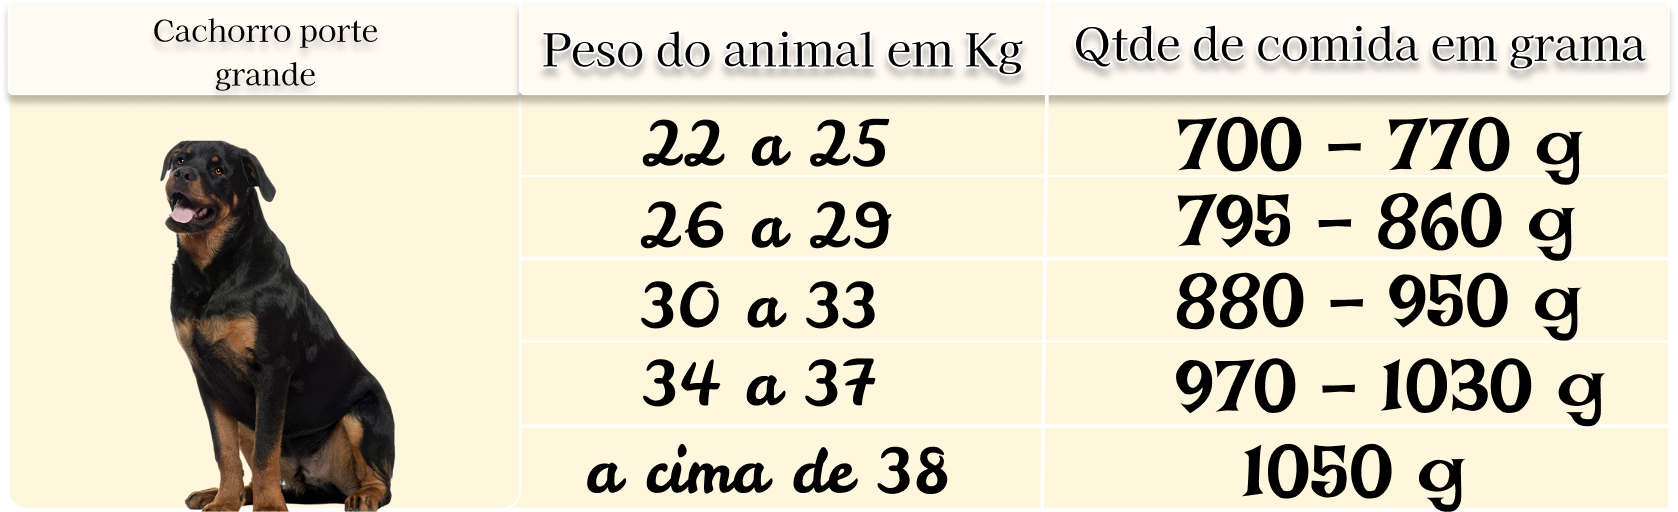
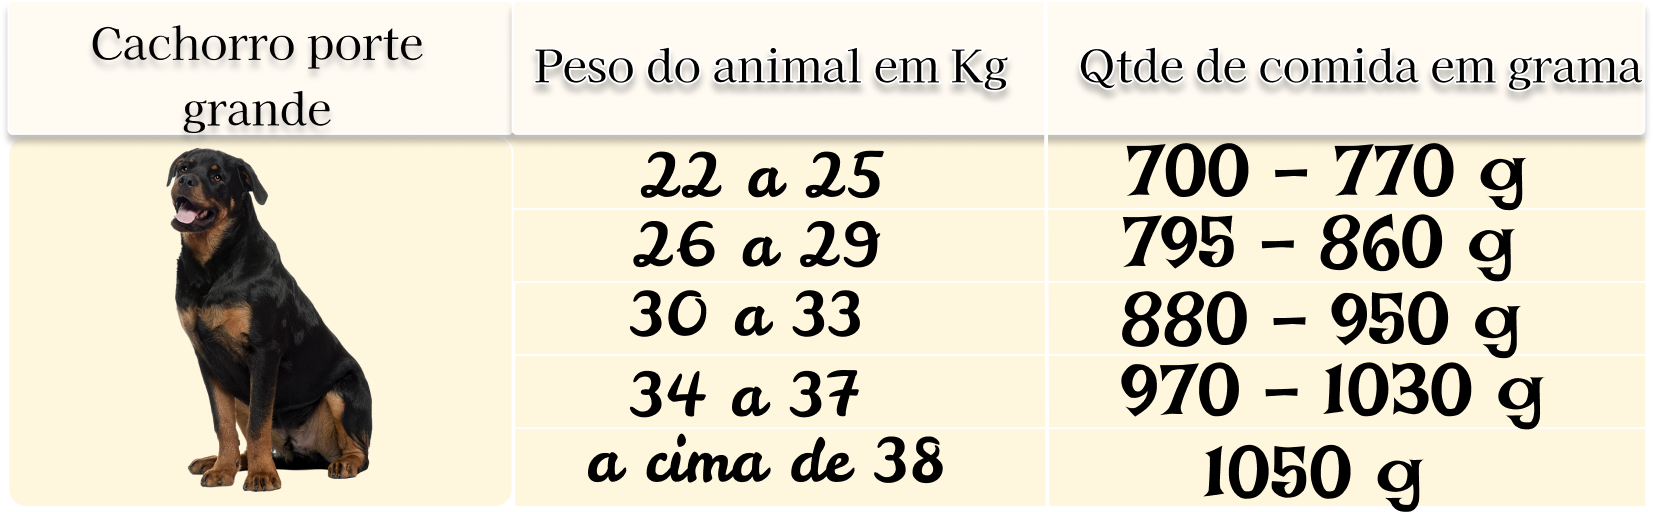
commit tabela semipronta

Changed region(s): [[0.0, 0.0312, 1.0, 1.0], [0.9873, 0.3125, 1.0, 0.375], [0.1851, 0.625, 0.216, 0.6875]]

diff --git a/index.html b/index.html
@@ -289,21 +289,93 @@
 
     <section id="tabela-pes/comida">
         <h2 class="tabela-title">Qual a quantidade média de comida para seu patudo ?</h2>
-        <div id="tabela">
 
-           <li class="linhas">
-                <lu class="tabela-comida">
-                    <img src="./imagens/Group 77.png" class="pequeno">
-                </lu>
-                <lu class="tabela-comida">
-                    <img src="./imagens/Group 78.png" class="medio">
-                </lu>
-                <lu class="tabela-comida">
-                    <img src="./imagens/Group 79.png" class="grande">
-                </lu>
-            </li>
-    
-        </div>
+        <section id="tabela">
+            <table class="porte-pequeno">
+                <thead>
+                    <tr>
+                        <th class="acoes-pequeno">Cachorro porte pequeno</th>
+                        <th class="acoes-pequeno">Peso do animal em Kg</th>
+                        <th class="acoes-pequeno">Qtde de comida em grama</th>
+                    </tr>
+                </thead>
+                <tbody>
+                    <tr>
+                        <td class="titulo-tabela"><img src="./imagens/shih tzu.png" class="shit"></td>
+                        <td class="titulo-tabela">1 a 3</td>
+                        <td class="titulo-tabela">69 - 150 g</td>
+                    </tr>
+                    <tr>
+                        <td></td>
+                        <td class="titulo-tabela">4 a 6</td>
+                        <td class="titulo-tabela">195 - 260 g</td>
+                    </tr>
+                    <tr>
+                        <td></td>
+                        <td class="titulo-tabela">7 a 10</td>
+                        <td class="titulo-tabela">295 - 385 g</td>
+                    </tr>
+                </tbody>
+            </table>
+
+            <table class="porte-medio">
+                <thead>
+                    <tr>
+                        <th class="acoes">Cachorro porte medio</th>
+                        <th class="acoes">Peso do animal em Kg</th>
+                        <th class="acoes">Qtde de comida em grama</th>
+                    </tr>
+                </thead>
+                <tbody>
+                    <tr>
+                        <td class="titulo-tabela"><img src="./imagens/beagle.png" class="shit"></td>
+                        <td class="titulo-tabela">11 a 13</td>
+                        <td class="titulo-tabela">415 - 470 g</td>
+                    </tr>
+                    <tr>
+                        <td></td>
+                        <td class="titulo-tabela">14 a 17</td>
+                        <td class="titulo-tabela">500 - 579 g</td>
+                    </tr>
+                    <tr>
+                        <td></td>
+                        <td class="titulo-tabela">18 a 21</td>
+                        <td class="titulo-tabela">600 - 675 g</td>
+                    </tr>
+                </tbody>
+            </table>
+
+            <table class="porte-grande">
+                <thead>
+                    <tr>
+                        <th class="acoes">Cachorro porte grande</th>
+                        <th class="acoes">Peso do animal em Kg</th>
+                        <th class="acoes">Qtde de comida em grama</th>
+                    </tr>
+                </thead>
+                <tbody>
+                    <tr>
+                        <td class="titulo-tabela"><img src="./imagens/rot.png" class="shit"></td>
+                        <td class="titulo-tabela">22 a 25</td>
+                        <td class="titulo-tabela">700 - 770 g</td>
+                    </tr>
+                    <tr>
+                        <td></td>
+                        <td class="titulo-tabela">26 a 29</td>
+                        <td class="titulo-tabela">795 - 860 g</td>
+                    </tr>
+                    <tr>
+                        <td></td>
+                        <td class="titulo-tabela">30 a 33</td>
+                        <td class="titulo-tabela">880 - 950 g</td>
+                    </tr>
+                    <tr>
+                        <td></td>
+                        <td class="titulo-tabela">a cima de 38</td>
+                        <td class="titulo-tabela">1050 g</td>
+                    </tr>
+                </tbody>
+            </table>
     </section>
 
     <div class="na-midia">
@@ -333,7 +405,7 @@
     </div>
 
     <section id="testimonials">
-        <img src="./imagens/estilizado.png" id="testimonial_chef">
+        <img src="./imagens/Bisc_Banana_com_Canela-removebg-preview.png" id="testimonial_chef">
 
         <div id="testimonials_content">
             <h2 id="section-title">Depoimentos</h2>
@@ -355,7 +427,7 @@
                         <p>
                             "Excelente super recomendo, minhas cachorrinhas amaram, o pelo ficou muito
                             mais bonito, nao cai o tanto que caia, tenho uma idosinha que estava com
-                            dificuldade em comer a racao ricou anemica e a comida natural ajudou ela"
+                            dificuldade em comer a ração ricou anemica e a comida natural ajudou ela"
                         </p>
                     </div>
                 </div>
@@ -414,12 +486,14 @@
     <div class="footer">
         <div class="footer-1">
             <div class="logo">
-                <img src="./imagens/Logo_BFP.png">
+                <a href="https://www.bestforpet.com.br/" target="_blank" class="site-oficial"><img src="./imagens/Logo_BFP.png"></a>
+                <span class="visite">Visite nosso site oficial</span>
+                <span id="span"></span>
             </div>
+            
             <address>
                 <p>Email: bestforpet@yahoo.com</p>
                 <p>Rua bartolomeu bueno da silva 117<br>Taquaral</br>Campinas SP</p>
-                <a href="https://www.bestforpet.com.br/">BFP Site oficial</a>
             </address>
         </div>
 

diff --git a/style.css b/style.css
@@ -19,7 +19,8 @@
 
 body{
     color: var(--dark);
-    background: var(--white);
+    background: #f7f2eb;
+    
 }
 
 .navigation{
@@ -487,19 +488,23 @@ h1{
 
 .na-midia{
     display: flex;
-    flex-direction: column;
-    align-items: center;
-    justify-content: center;
     margin-bottom: 5px;
-    margin-top: 20px;
+    margin-top: 100px;
+    justify-content: space-between;
 }
 
 .midias{
-    display: flex;
+    display: grid;
+    grid-template-columns: 1fr 1fr;
     margin-top: 10px;
     text-align: center;
+    
 }
 
+#title-midia{
+    display: flex;
+    
+}
 
 .footer img{
     width: 20%;
@@ -521,6 +526,7 @@ h1{
     justify-content: space-around;
     align-items: center;
     box-shadow: rgba(0, 0, 0, 0.35) 0px 5px 15px;
+    width: 100%;
 }
 
 .footer-1 .logo img{
@@ -789,9 +795,9 @@ h1{
     display: flex;
     align-items: center;
     gap: 20px;
-    background-color: #fdf2e1;
+    background-color: white;
     padding: 12px;
-    border-radius: 12px;
+    border-radius: 10px;
     box-shadow: 0 0 12px 4px rgba(0, 0, 0, 0.1);
 }
 
@@ -814,10 +820,12 @@ h1{
 .btn-default{
     background-color: wheat;
     box-shadow: 0 0 12px 4px rgba(0, 0, 0, 0.1);
-    width: 150px;
+    width: 100px;
+    height: 45px;
     border: 1px solid #1e1c2a;
     transition: 2s;
     border-radius: 10px;
+    margin-left: 260px;
 }
 
 .btn-default:hover{
@@ -865,4 +873,87 @@ h1{
     text-align: center;
     align-items: center;
     margin-left: 65px;
+}
+
+.visite{
+    margin-top: -20px;
+    align-items: end;
+    display: flex;
+}
+
+
+/* quer ter uma quise de labirintite ? descomente esse codigo
+span{
+    width: 10px;
+    height: 40px;
+    background-color: white;
+    border-radius: 5px;
+    margin: 6px;
+    animation: move 1.1s infinite ease-in-out;
+}
+
+span:nth-of-type(1){
+    transform: rotate(-45deg);
+}
+
+span:nth-of-type(2){
+    transform: rotate(45deg);
+}
+
+@keyframes move {
+    0%{margin-top: 0;}
+    50%{margin-top: 100px;}
+    100%{margin-top: 0px;}
+}
+
+*/
+
+.shit{
+    width: 100px;
+}
+
+.titulo-tabela{
+   text-align: left;
+}
+
+.acoes-pequeno{
+    text-align: center;
+}
+
+.porte-pequeno{
+    background-color: #FFDEDE;
+}
+
+.porte-medio{
+    background-color: #DEF0FF;
+}
+
+.porte-grande{
+    background-color: #FFF6DE;
+}
+
+table, th, th{
+    border: 2px solid white;
+    border-collapse: collapse;
+    padding: 5px 2px;
+    width: 30%;
+}
+
+.porte-pequeno th{
+    background-color: #FFF3F3;
+}
+
+.porte-medio th{
+    background-color: #F3FBFF;
+}
+
+
+.porte-grande th{
+    background-color: #FFFBF3;
+}
+
+
+tr:hover{
+    transition: 2s;
+    scale: 1.5;
 }
